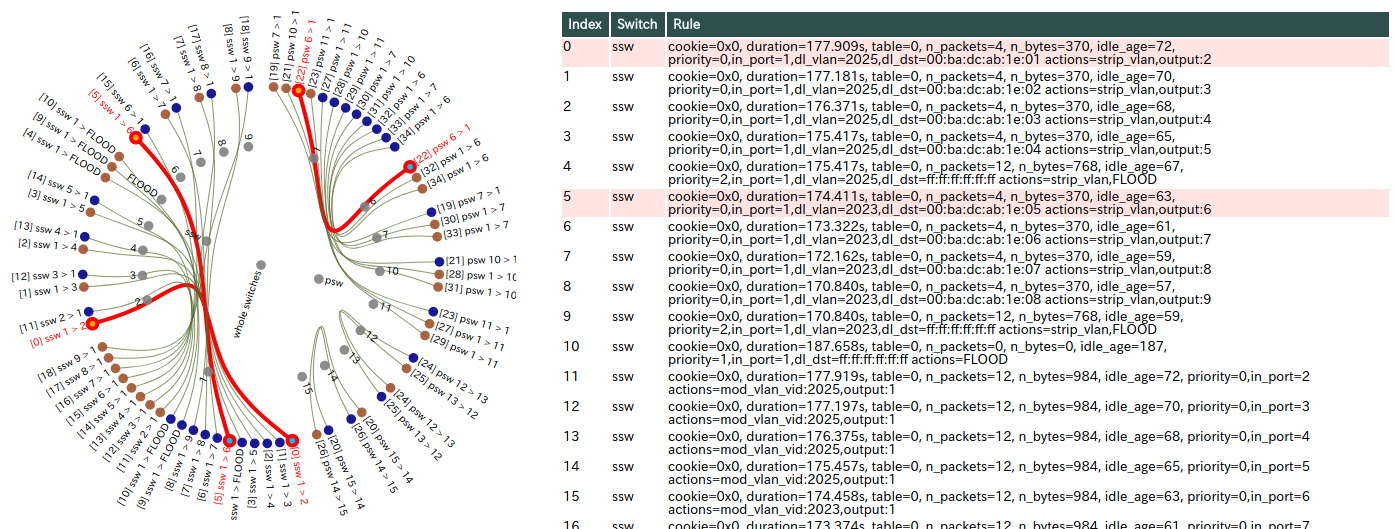
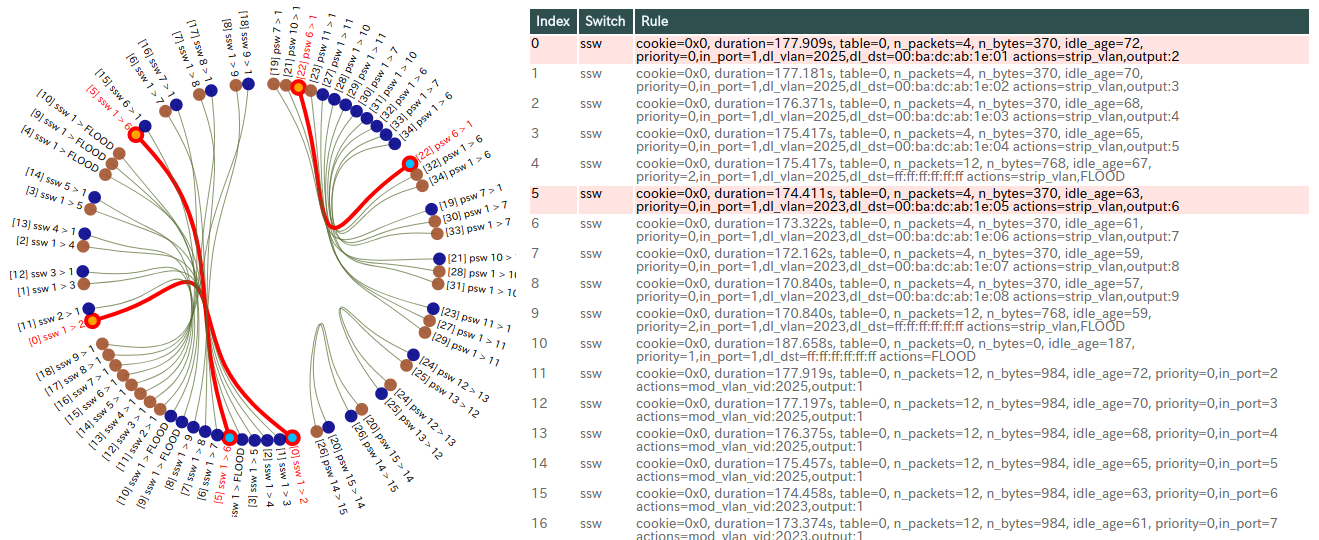
Bug fix/Refactoring/Change Layout - fix redraw-button callback - fix/refactor mouseover event callbacks - draw only leaf nodes (`leaves`) instead of `descendants`

diff --git a/js/flow_view.js b/js/flow_view.js
@@ -35,30 +35,29 @@ function nodeY(d) {
     return d.y * Math.sin(nodeAngleRad(d.x));
 }
 
+function changeElementTargetting(tagList) {
+    "use strict";
+    var setTargeted = tagList.length > 0;
+    var selectStr = setTargeted ? tagList.join(" ") : "targeted";
+
+    // select elements from both svg and table by class name.
+    var elementSet = document.getElementById("viewer");
+    var selectedElements = elementSet.getElementsByClassName(selectStr);
+    Array.from(selectedElements).forEach(function(element) {
+        setTargeted ?
+            element.classList.add("targeted") :
+            element.classList.remove("targeted");
+    });
+}
+
 function selectElements(tagList) {
     "use strict";
-    var svg = d3.select("#flow_view_canvas");
-    svg.selectAll(tagList.join("."))
-        .classed("targeted", true);
-
-    var flowTable = document.getElementById("flow_table");
-    var selectedFlows = flowTable.getElementsByClassName(tagList.join(" "));
-    Array.prototype.forEach.call(selectedFlows, function(flow) {
-        flow.classList.add("targeted");
-    });
+    changeElementTargetting(tagList);
 }
 
 function clearSelectedElements() {
     "use strict";
-    var svg = d3.select("#flow_view_canvas");
-    svg.selectAll(".targeted")
-        .classed("targeted", false);
-
-    var flowTable = document.getElementById("flow_table");
-    var selectedFlows = flowTable.getElementsByClassName("targeted");
-    Array.prototype.forEach.call(selectedFlows, function(flow) {
-        flow.classList.remove("targeted");
-    });
+    changeElementTargetting([]);
 }
 
 // mouse event (highlight object)
@@ -84,11 +83,11 @@ function edgeMouseEvent(thisObj) {
         // if found (several) mac-addr-tag(s)
         clearSelectedElements();
         macTags.forEach(function(macTag) {
-            selectElements(["", macTag].concat(otherTags));
+            selectElements([macTag].concat(otherTags));
         });
     } else if (otherTags.length > 0) {
         clearSelectedElements();
-        selectElements([""].concat(otherTags));
+        selectElements(otherTags);
     }
 }
 
@@ -113,7 +112,7 @@ function drawFlowData(nodes, paths) {
     // layout
     var layout = d3.cluster().size([360, radius]);
     layout(nodes);
-    var nodeSize = 0.8 * radius * Math.PI / nodes.descendants().length;
+    var nodeSize = 0.8 * radius * Math.PI / nodes.leaves().length;
 
     // draw lines
     var line = d3.radialLine()
@@ -135,7 +134,7 @@ function drawFlowData(nodes, paths) {
 
     // draw nodes
     svg.selectAll("circle")
-        .data(nodes.descendants())
+        .data(nodes.leaves())
         .enter()
         .append("circle")
         .attrs({
@@ -154,7 +153,7 @@ function drawFlowData(nodes, paths) {
 
     // draw text label
     svg.selectAll("text")
-        .data(nodes.descendants())
+        .data(nodes.leaves())
         .enter()
         .append("text")
         .attrs({

diff --git a/index.html b/index.html
@@ -60,15 +60,17 @@ NXST_FLOW reply (xid=0x4):
     </p>
 </form>
 
-<div id="flow_view"></div>
-<div id="flow_table"></div>
+<div id="viewer">
+    <div id="flow_view"></div>
+    <div id="flow_table"></div>
+</div>
 
 <script src="https://d3js.org/d3.v4.min.js"></script>
 <script src="https://d3js.org/d3-selection-multi.v1.min.js"></script>
 <script src="https://d3js.org/d3-scale.v1.min.js"></script>
-<script src="./flow_data.js"></script>
-<script src="./flow_table.js"></script>
-<script src="./flow_view.js"></script>
+<script src="./js/flow_data.js"></script>
+<script src="./js/flow_table.js"></script>
+<script src="./js/flow_view.js"></script>
 <script type="text/javascript">
     "use strict";
 
@@ -76,7 +78,7 @@ NXST_FLOW reply (xid=0x4):
         "use strict";
         var flowView = document.getElementById("flow_view_canvas");
         flowView.parentNode.removeChild(flowView);
-        var flowTable = document.getElementById("selected_flows");
+        var flowTable = document.getElementById("flow_table");
         flowTable.textContent = "";
         draw_view();
     }

diff --git a/flow_view.css b/flow_view.css
@@ -2,7 +2,6 @@
     stroke-width: 4;
     stroke: red;
     opacity: 1.0;
-    background-color: mistyrose;
 }
 
 textarea {
@@ -54,15 +53,20 @@ div#selected_flows {
     float: right;
     width: 60%;
 }
-table th {
+th {
     text-align: left;
     background: darkslategrey;
     color: aliceblue;
     font-size: small;
     padding: 0.5em;
 }
-table td {
+tr {
+    color: dimgray;
     text-align: left;
     vertical-align: top;
     font-size: small;
+}
+tr.targeted {
+    color: black;
+    background-color: mistyrose;
 }

diff --git a/README.md b/README.md
@@ -1,8 +1,24 @@
 # nettester_flowviewer
 Visualize OVS flow table under [NetTester](https://github.com/net-tester/net-tester) control to debug.
 
+## Installation/Requirement
+- Clone or [Download/Unzip](https://github.com/corestate55/nettester_flowviewer/archive/develop.zip) this repos.
+- Open [index.html](./index.html)
+  - Use chrome (tested with chromium 59 on ubuntu16.04)
+    or other browser that can work with [D3.js (v4)](https://d3js.org/).
+  - This repos does not contain d3.js. So it needs internet connection to download it.
+
+## Usage
+1. Run [NetTester](https://github.com/net-tester/net-tester) as you like.
+2. Get flow table of each OVS (SSW and PSW), with command `ovs-ofctl dump-flows`.
+3. Copy and paste the dumped texts into each corresponded textbox.
+4. Clink "(Re)Draw" button.
+
+This application visualize and highlight correspond flow entries in each switches
+as a graph and a flow table by "mouse-over".
+
 ## Sample
-Flow rules included [index.html](./index.html) are installed by NetTester controller,
+Flow rules included [index.html](./index.html) are installed by [NetTester](https://github.com/net-tester/net-tester) controller,
 with [sample script (example2.rb)](https://gist.github.com/corestate55/91dd3e4dc54e858082ca082a4270c004#file-example2-rb)
 
 This tool visualize flow rules like below.
